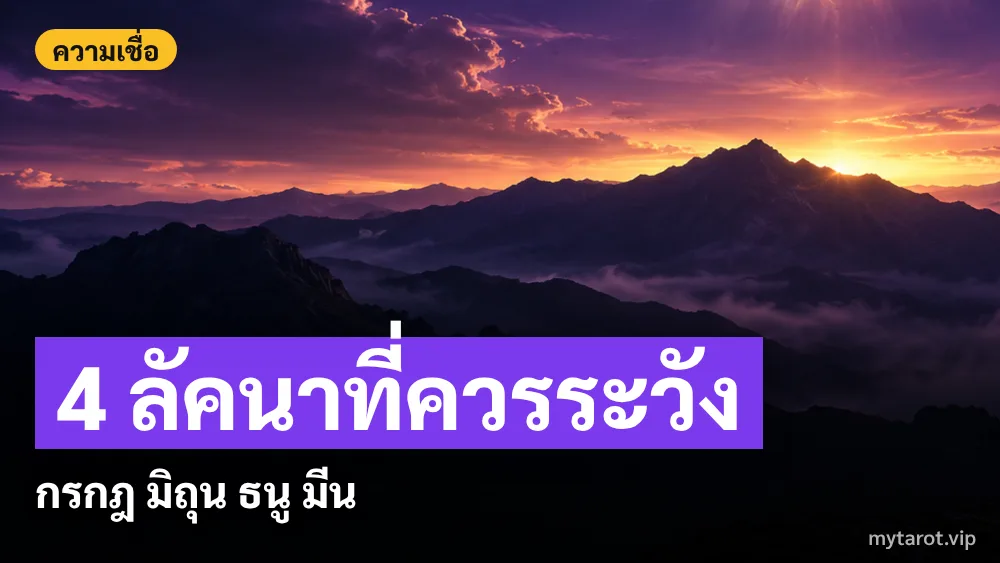
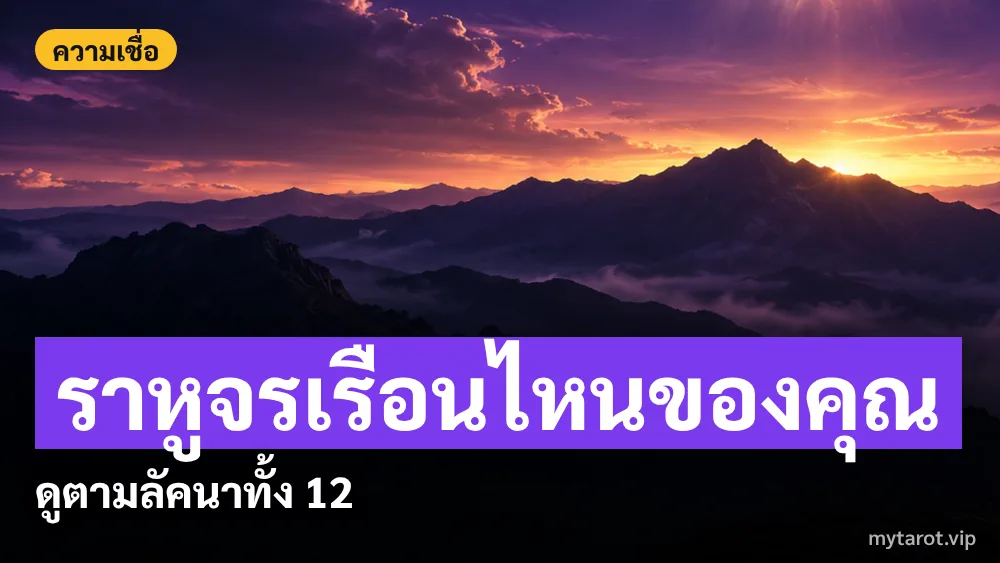
news

Changed region(s): [[0.031, 0.5737, 0.961, 0.9361]]

diff --git a/news/rahu-capricorn-2569.html b/news/rahu-capricorn-2569.html
@@ -4,17 +4,17 @@
   <meta charset="UTF-8">
   <meta name="viewport" content="width=device-width, initial-scale=1.0">
   <title>ราหูย้ายมังกร 22 พ.ย. 2569 กระทบ 12 ลัคนาอย่างไร | mytarot.vip</title>
-  <meta name="description" content="ราหูย้ายจากราศีกุมภ์เข้าราศีมังกร 22 พ.ย. 2569 เวลาประมาณ 05:05 น. อยู่ราว 1 ปีครึ่ง ลัคนาไหนต้องระวัง ไหว้พระราหูอย่างไร ตามความเชื่อโหราศาสตร์ไทย">
+  <meta name="description" content="ราหูย้ายจากราศีกุมภ์เข้าราศีมังกร 22 พ.ย. 2569 อยู่ราว 1 ปีครึ่ง ดูตามลัคนาว่ากระทบเรือนไหน ไหว้พระราหูอย่างไร ตามตำราโหราศาสตร์ไทย">
   <link rel="canonical" href="https://www.mytarot.vip/news/rahu-capricorn-2569">
   <meta property="og:title" content="ราหูย้ายมังกร 22 พ.ย. 2569 กระทบ 12 ลัคนาอย่างไร | mytarot.vip">
-  <meta property="og:description" content="ราหูย้ายจากราศีกุมภ์เข้าราศีมังกร 22 พ.ย. 2569 เวลาประมาณ 05:05 น. อยู่ราว 1 ปีครึ่ง ลัคนาไหนต้องระวัง ไหว้พระราหูอย่างไร ตามความเชื่อโหราศาสตร์ไทย">
+  <meta property="og:description" content="ราหูย้ายจากราศีกุมภ์เข้าราศีมังกร 22 พ.ย. 2569 อยู่ราว 1 ปีครึ่ง ดูตามลัคนาว่ากระทบเรือนไหน ไหว้พระราหูอย่างไร ตามตำราโหราศาสตร์ไทย">
   <meta property="og:url" content="https://www.mytarot.vip/news/rahu-capricorn-2569">
   <meta property="og:image" content="https://www.mytarot.vip/images/news/og-rahu-capricorn-2569.jpg">
   <meta property="og:type" content="article">
   <meta property="og:locale" content="th_TH">
   <meta name="twitter:card" content="summary_large_image">
   <meta name="twitter:title" content="ราหูย้ายมังกร 22 พ.ย. 2569 กระทบ 12 ลัคนาอย่างไร | mytarot.vip">
-  <meta name="twitter:description" content="ราหูย้ายจากราศีกุมภ์เข้าราศีมังกร 22 พ.ย. 2569 เวลาประมาณ 05:05 น. อยู่ราว 1 ปีครึ่ง ลัคนาไหนต้องระวัง ไหว้พระราหูอย่างไร ตามความเชื่อโหราศาสตร์ไทย">
+  <meta name="twitter:description" content="ราหูย้ายจากราศีกุมภ์เข้าราศีมังกร 22 พ.ย. 2569 อยู่ราว 1 ปีครึ่ง ดูตามลัคนาว่ากระทบเรือนไหน ไหว้พระราหูอย่างไร ตามตำราโหราศาสตร์ไทย">
   <meta name="twitter:image" content="https://www.mytarot.vip/images/news/og-rahu-capricorn-2569.jpg">
   <link rel="icon" type="image/png" href="/images/favicon.png">
   <link rel="preconnect" href="https://fonts.googleapis.com">
@@ -76,6 +76,12 @@
     .cta-desc{font-size:13px;color:rgba(255,255,255,0.55);line-height:1.8;margin-bottom:14px;}
     .cta-btn{display:block;padding:13px;border-radius:14px;background:linear-gradient(135deg,#fcd34d,#fbbf24);color:#0b0e14;font-size:14.5px;font-weight:800;text-decoration:none;margin-bottom:8px;}
     .cta-btn-sec{display:block;padding:11px;border-radius:14px;background:rgba(255,255,255,0.04);border:1px solid rgba(255,255,255,0.1);color:rgba(255,255,255,0.6);font-size:12.5px;font-weight:600;text-decoration:none;margin-top:8px;}
+    .lg{border:1px solid rgba(255,255,255,0.08);border-radius:14px;padding:12px 14px;margin:0 0 10px;background:rgba(255,255,255,0.02);}
+    .lg h3{font-size:15px;font-weight:800;margin:0 0 4px;color:#fff;display:flex;align-items:center;gap:8px;flex-wrap:wrap;}
+    .lg h3 em{font-style:normal;font-size:11px;padding:2px 10px;border-radius:999px;font-weight:700;}
+    .lg h3 em.ok{background:rgba(52,211,153,0.15);color:#6ee7b7;}
+    .lg h3 em.care{background:rgba(251,191,36,0.15);color:#fcd34d;}
+    .lg p{font-size:14px;margin:0;line-height:1.9;}
     .rel{display:flex;flex-wrap:wrap;gap:8px;margin:12px 16px 0;}
     .rel a{padding:8px 14px;border-radius:999px;background:rgba(251,191,36,0.06);border:1px solid rgba(251,191,36,0.22);color:#fcd34d;font-size:12.5px;text-decoration:none;}
     .seo-block{padding:20px;border-top:1px solid rgba(255,255,255,0.06);margin-top:22px;}
@@ -98,45 +104,75 @@
     <button type="button" id="cpLink">Copy link</button>
   </div>
   <div class="a-body">
-    <p>วันที่ 22 พฤศจิกายน 2569 เวลาประมาณ 05:05 น. ดาวราหูจะย้ายจากราศีกุมภ์เข้าสู่ราศีมังกร ตามที่โหรหลายสำนักรายงาน (เวลาอาจต่างกันเล็กน้อยตามแต่ละสำนัก) และจะอยู่ในราศีนี้ราว 1 ปีครึ่ง เรารวมสิ่งที่ควรรู้ไว้ในหน้าเดียวแล้ว</p>
+    <p>เช้ามืดวันที่ 22 พฤศจิกายน 2569 ดาวราหูย้ายจากราศีกุมภ์เข้าสู่ราศีมังกร และจะอยู่ในราศีนี้ราว 1 ปีครึ่ง ถึงราวกลางปี 2571 ตามตำราโหราศาสตร์ไทย การเปลี่ยนราศีของราหูส่งผลต่อเรือนชะตาของแต่ละคนต่างกัน บทความนี้สรุปให้ครบในหน้าเดียว ตั้งแต่ความหมายของราหู ผลต่อแต่ละลัคนา ไปจนถึงวิธีไหว้</p>
     <div class="keybox">
-      <div><b>วันเวลา:</b> 22 พ.ย. 2569 ประมาณ 05:05 น.</div>
+      <div><b>วันเวลา:</b> เช้ามืด 22 พ.ย. 2569</div>
       <div><b>ย้ายจาก:</b> ราศีกุมภ์ → ราศีมังกร</div>
       <div><b>อยู่นาน:</b> ราว 1 ปีครึ่ง ถึงกลางปี 2571</div>
+      <div><b>เกตุ:</b> ย้ายเข้าราศีกรกฎพร้อมกัน</div>
       <div><b>ผล:</b> ต่างกันตามลัคนาของแต่ละคน</div>
     </div>
     <div class="a-fig"><img src="/images/news/rahu-in-1.webp" alt="ราหูคือดาวอะไร" width="1000" height="563" loading="lazy" decoding="async"><h2 class="a-h2">ราหูคือดาวอะไร ตามโหราศาสตร์ไทย</h2></div>
 
-    <p>ราหูเป็นดาวเงา ไม่ใช่ดาวที่มองเห็นด้วยตา ตามโหราศาสตร์ไทยเชื่อกันว่าราหูแทนเรื่องที่ไม่คาดคิด การเปลี่ยนแปลงกะทันหัน รวมถึงเรื่องของโลกออนไลน์และงานต่างประเทศ ราหูเดินถอยหลังและอยู่ราศีละราว 1 ปีครึ่ง การย้ายแต่ละครั้งจึงเป็นเรื่องที่โหรพูดถึงเสมอ ถ้าอยากรู้พื้นฐานเพิ่ม อ่านต่อได้ที่ <a href="/learn/thai-astro">โหราศาสตร์ไทยคืออะไร</a></p>
-    <h2 class="a-h2">ภาพรวมที่โหรหลายสำนักมองคล้ายกัน</h2>
-    <ul>
-      <li>ผลต่างกันตามลัคนา ลัคนาคือราศีที่ขึ้นทางตะวันออกตอนเกิด ไม่ใช่ราศีตามเดือนเกิด</li>
-      <li>ช่วงส่งท้ายปีหลายสำนักแนะนำให้วางแผนรอบคอบ เพราะบางลัคนามีทั้งโอกาสและเรื่องวุ่นวายมาพร้อมกัน</li>
-      <li>บางสำนักมองว่าหลังย้าย เรื่องที่ค้างคาของบางลัคนาจะเริ่มคลี่คลายและงานราบรื่นขึ้น</li>
-    </ul>
-    <p>ถ้ายังไม่รู้ลัคนาของตัวเอง <a href="/pages/thai-astro">ผูกดวงโหราศาสตร์ไทย</a> จากวันเวลาที่เกิดได้</p>
-    <div class="a-fig"><img src="/images/news/rahu-in-2.webp" alt="4 ลัคนาที่ควรระวัง" width="1000" height="563" loading="lazy" decoding="async"><h2 class="a-h2">4 ลัคนาที่โหรบางสำนักเตือนให้ระวัง</h2></div>
+    <p>ราหูเป็นดาวเงา ไม่ใช่ดาวที่มองเห็นด้วยตา ตามตำราไทยราหูแทนเรื่องที่ไม่คาดคิด การเปลี่ยนแปลงกะทันหัน ความอยากได้ใคร่มี เรื่องของโลกออนไลน์ และงานต่างประเทศ ราหูเดินถอยหลังและอยู่ราศีละราว 1 ปีครึ่ง อ่านพื้นฐานเพิ่มได้ที่ <a href="/learn/thai-astro">โหราศาสตร์ไทยคืออะไร</a></p>
+    <h2 class="a-h2">ราหูในราศีมังกร ต่างจากกุมภ์อย่างไร</h2>
+    <p>ทั้งมังกรและกุมภ์มีเสาร์เป็นเจ้าเรือน แต่เนื้อหาต่างกัน ช่วงที่ราหูอยู่กุมภ์ เรื่องเด่นคือโลกออนไลน์ เทคโนโลยี และเครือข่ายคนรู้จัก เมื่อย้ายเข้ามังกร ตามตำราจุดเน้นขยับมาที่การงาน ระเบียบ ความรับผิดชอบ ทรัพย์สินที่จับต้องได้ และองค์กรขนาดใหญ่ ผู้ที่อยากได้ความก้าวหน้าจะรู้สึกถึงแรงผลักดัน ขณะเดียวกันก็ต้องจัดการกับแรงกดดันของหน้าที่มากขึ้นด้วย ลองอ่านลักษณะของ<a href="/learn/capricorn">ราศีมังกร</a>และ<a href="/learn/aquarius">ราศีกุมภ์</a>เทียบกันได้ที่ห้องเรียน</p>
+    <h2 class="a-h2">ราหูย้ายแล้วกระทบเรื่องไหน ดูที่ลัคนา</h2>
+    <p>หลักของโหราศาสตร์ไทยคือดูว่าราหูจรผ่านเรือนไหนของดวงเรา ลัคนาคือราศีที่ขึ้นทางตะวันออกตอนเกิด ไม่ใช่ราศีตามเดือนเกิด เมื่อราหูอยู่ราศีมังกร เรือนที่ถูกกระตุ้นจะต่างกันตามลัคนา ตามหลักเรือนจรทั่วไป เรือนที่ 3 6 10 และ 11 เป็นเรือนที่ดาวราหูมักเอื้อ ส่วนเรือนอื่นควรรอบคอบกับเรื่องที่เรือนนั้นดูแล</p>
+    <div class="a-fig"><img src="/images/news/rahu-in-2.webp" alt="ราหูจรเรือนไหนของคุณ" width="1000" height="563" loading="lazy" decoding="async"><h2 class="a-h2">ราหูจรเรือนไหนของคุณ</h2></div>
 
     <div class="table-wrap"><table>
-      <tr><th>ลัคนา</th><th>เรื่องที่ควรระวัง</th></tr>
-      <tr><td>กรกฎ</td><td>สุขภาพ โรคตามฤดูกาล และที่ที่คนแน่น ควรพักผ่อนให้พอ</td></tr>
-      <tr><td>มิถุน</td><td>เรื่องครอบครัว คำพูดกับผู้ใหญ่ และสุขภาพของผู้สูงอายุในบ้าน</td></tr>
-      <tr><td>ธนู</td><td>เงินรั่ว รายจ่ายก้อนใหญ่หรือเรื่องด่วนที่ต้องจ่าย</td></tr>
-      <tr><td>มีน</td><td>กระแสเงินสด ค่าใช้จ่ายก้อนใหญ่อาจมาพร้อมกัน ควรวางแผนไว้</td></tr>
+      <tr><th>ลัคนา</th><th>ราหูจร</th><th>แนวโน้ม</th><th>เรื่องที่เกี่ยวข้อง</th></tr>
+      <tr><td>เมษ</td><td>เรือนที่ 10</td><td>เอื้อ</td><td>การงานและชื่อเสียง</td></tr>
+      <tr><td>พฤษภ</td><td>เรือนที่ 9</td><td>รอบคอบ</td><td>เดินทางไกล การเรียน ผู้ใหญ่</td></tr>
+      <tr><td>มิถุน</td><td>เรือนที่ 8</td><td>รอบคอบ</td><td>เงินร่วม หนี้ เรื่องไม่คาดคิด</td></tr>
+      <tr><td>กรกฎ</td><td>เรือนที่ 7</td><td>รอบคอบ</td><td>คู่ครองและหุ้นส่วน</td></tr>
+      <tr><td>สิงห์</td><td>เรือนที่ 6</td><td>เอื้อ</td><td>งานประจำ สุขภาพ คู่แข่ง</td></tr>
+      <tr><td>กันย์</td><td>เรือนที่ 5</td><td>รอบคอบ</td><td>ความรัก ลูก การลงทุน</td></tr>
+      <tr><td>ตุลย์</td><td>เรือนที่ 4</td><td>รอบคอบ</td><td>บ้านและครอบครัว</td></tr>
+      <tr><td>พิจิก</td><td>เรือนที่ 3</td><td>เอื้อ</td><td>การสื่อสาร พี่น้อง</td></tr>
+      <tr><td>ธนู</td><td>เรือนที่ 2</td><td>รอบคอบ</td><td>การเงินและคำพูด</td></tr>
+      <tr><td>มังกร</td><td>เรือนที่ 1</td><td>รอบคอบ</td><td>ตัวตนและสุขภาพ</td></tr>
+      <tr><td>กุมภ์</td><td>เรือนที่ 12</td><td>รอบคอบ</td><td>ค่าใช้จ่าย ต่างประเทศ</td></tr>
+      <tr><td>มีน</td><td>เรือนที่ 11</td><td>เอื้อ</td><td>รายได้ เพื่อนฝูง เป้าหมาย</td></tr>
     </table></div>
-    <div class="note">เป็นการทำนายของโหราศาสตร์บางสำนัก ไม่ได้แปลว่าลัคนาอื่นไม่ต้องระวัง และไม่ได้แปลว่าเรื่องร้ายจะเกิดแน่นอน เรียนรู้ลักษณะของ<a href="/learn/capricorn">ราศีมังกร</a>และ<a href="/learn/aquarius">ราศีกุมภ์</a>เพิ่มได้ที่ห้องเรียนของเรา</div>
+    <h2 class="a-h2">อ่านรายละเอียดแต่ละลัคนา</h2>
+    <div class="lg"><h3>ลัคนาเมษ · เรือนที่ 10 <em class="ok">มักเอื้อ</em></h3><p>ราหูจรเรือนการงาน เรื่องงานและชื่อเสียงถูกกระตุ้นแรง อาจมีโอกาสเปลี่ยนตำแหน่ง ย้ายสายงาน หรือมีคนจับตามองผลงานมากขึ้น ตามหลักเรือนจรเป็นเรือนที่ราหูมักเอื้อ ควรรับโอกาสแต่อ่านรายละเอียดข้อตกลงให้ครบก่อนตอบรับ</p></div>
+    <div class="lg"><h3>ลัคนาพฤษภ · เรือนที่ 9 <em class="care">ควรรอบคอบ</em></h3><p>เรือนของการเดินทางไกล การศึกษา และผู้ใหญ่ อาจมีเรื่องเรียนต่อ งานต่างถิ่น หรือแนวคิดใหม่ที่เปลี่ยนมุมมองชีวิต ควรรอบคอบกับการตัดสินใจตามคำแนะนำของผู้ใหญ่หรือที่ปรึกษา และเตรียมเอกสารเดินทางล่วงหน้า</p></div>
+    <div class="lg"><h3>ลัคนามิถุน · เรือนที่ 8 <em class="care">ควรรอบคอบ</em></h3><p>เรือนของเงินร่วม หนี้สิน มรดก ภาษี และเรื่องไม่คาดคิด ควรทบทวนประกัน เอกสารการเงิน และสัญญาที่ผูกพันกับผู้อื่น หลีกเลี่ยงการค้ำประกันหรือกู้เกินตัว และไม่ควรลืมตรวจสุขภาพประจำปี</p></div>
+    <div class="lg"><h3>ลัคนากรกฎ · เรือนที่ 7 <em class="care">ควรรอบคอบ</em></h3><p>เรือนของคู่ครองและหุ้นส่วน อาจมีคนใหม่เข้ามาในชีวิตหรือในงาน ขณะที่ความสัมพันธ์เดิมอาจถูกทดสอบ ควรสื่อสารตรงไปตรงมา อ่านสัญญาร่วมทุนอย่างละเอียด และไม่ด่วนสรุปเรื่องคนที่เพิ่งรู้จัก</p></div>
+    <div class="lg"><h3>ลัคนาสิงห์ · เรือนที่ 6 <em class="ok">มักเอื้อ</em></h3><p>เรือนของงานประจำ สุขภาพ และคู่แข่ง ตามหลักเรือนจรเป็นเรือนที่ราหูมักเอื้อต่อการแข่งขันและการแก้ปัญหาเรื้อรัง เหมาะกับการจัดระเบียบงาน ปรับพฤติกรรมสุขภาพ และสะสางหนี้ที่ค้างอยู่</p></div>
+    <div class="lg"><h3>ลัคนากันย์ · เรือนที่ 5 <em class="care">ควรรอบคอบ</em></h3><p>เรือนของความรัก ลูก ความคิดสร้างสรรค์ และการลงทุนเสี่ยง มักมีไอเดียแปลกใหม่และเสน่ห์ดึงดูด แต่ควรระวังการเก็งกำไรเกินตัวและความรักที่ร้อนแรงเร็วเกินไป ลงทุนเฉพาะเงินที่รับความเสี่ยงได้</p></div>
+    <div class="lg"><h3>ลัคนาตุลย์ · เรือนที่ 4 <em class="care">ควรรอบคอบ</em></h3><p>เรือนของบ้าน ครอบครัว ที่ดิน และสภาพจิตใจ อาจมีเรื่องย้ายที่อยู่ ซ่อมแซมบ้าน หรือดูแลคนในครอบครัวมากขึ้น ควรใจเย็นกับคนใกล้ชิด และตรวจเอกสารสิทธิ์หรือสัญญาเช่าให้เรียบร้อย</p></div>
+    <div class="lg"><h3>ลัคนาพิจิก · เรือนที่ 3 <em class="ok">มักเอื้อ</em></h3><p>เรือนของการสื่อสาร พี่น้อง และการเดินทางใกล้ ตามหลักเรือนจรเป็นเรือนที่ราหูมักเอื้อ เหมาะกับการเริ่มงานเขียน การตลาด การเจรจา หรือเรียนทักษะใหม่ แต่ควรตรวจข้อมูลให้ชัดก่อนส่งต่อหรือพูดออกไป</p></div>
+    <div class="lg"><h3>ลัคนาธนู · เรือนที่ 2 <em class="care">ควรรอบคอบ</em></h3><p>เรือนของการเงิน คำพูด และทรัพย์สิน รายรับรายจ่ายอาจแกว่ง มีโอกาสหารายได้ทางใหม่ แต่รายจ่ายก็มาพร้อมกัน ควรทำงบรายเดือน ระวังคำพูดที่กระทบความสัมพันธ์ และไม่เซ็นข้อตกลงเรื่องเงินแบบรีบร้อน</p></div>
+    <div class="lg"><h3>ลัคนามังกร · เรือนที่ 1 <em class="care">ควรรอบคอบ</em></h3><p>ราศีที่ราหูเข้ามาตรงกับลัคนาของคุณ เป็นเรือนตัวตน สุขภาพ และบุคลิก คนรอบข้างอาจเห็นว่าคุณเปลี่ยนไป และคุณเองอาจอยากเปลี่ยนภาพลักษณ์หรือชีวิตครั้งใหญ่ ควรพักผ่อนให้พอ ตรวจสุขภาพ และตัดสินใจเรื่องใหญ่เมื่อใจนิ่ง</p></div>
+    <div class="lg"><h3>ลัคนากุมภ์ · เรือนที่ 12 <em class="care">ควรรอบคอบ</em></h3><p>เรือนของค่าใช้จ่าย การพักผ่อน ต่างประเทศ และเรื่องลับ ราหูเพิ่งออกจากราศีลัคนาของคุณ แรงกดดันที่เคยมีอาจผ่อนลง แต่ค่าใช้จ่ายด้านสุขภาพ การเดินทาง หรือเรื่องที่ซ่อนอยู่อาจโผล่ขึ้นมา ควรกันเงินสำรองและนอนให้พอ</p></div>
+    <div class="lg"><h3>ลัคนามีน · เรือนที่ 11 <em class="ok">มักเอื้อ</em></h3><p>เรือนของรายได้ เพื่อนฝูง และเป้าหมาย ตามหลักเรือนจรเป็นเรือนที่ราหูมักเอื้อ เครือข่ายคนรู้จักช่วยเปิดโอกาสรายได้ได้ แต่ควรเลือกคบคนและโครงการที่ไว้ใจ ไม่หลงตามกระแสเร็วเกินไป</p></div>
+    <div class="note">นี้เป็นการดูจากเรือนจรเพียงอย่างเดียว ผลจริงขึ้นกับดวงกำเนิดทั้งหมดและดาวดวงอื่นด้วย ตามความเชื่อไม่ได้แปลว่าจะดีหรือร้ายแน่นอน ถ้ายังไม่รู้ลัคนาของตัวเอง <a href="/pages/thai-astro">ผูกดวงโหราศาสตร์ไทย</a> จากวันเวลาเกิดได้</div>
+    <h2 class="a-h2">เกตุย้ายเข้ากรกฎพร้อมกัน</h2>
+    <p>ราหูกับเกตุอยู่ตรงข้ามกันเสมอ เมื่อราหูเข้ามังกร เกตุจะเข้าราศีกรกฎ ตามตำราเกตุเกี่ยวกับการปล่อยวาง จิตใจ ครอบครัว และเรื่องในอดีต จึงมองได้ว่าช่วงนี้เป็นการดึงความสนใจไปที่งานและความสำเร็จ ขณะที่ต้องหมั่นดูแลใจและคนในบ้านไม่ให้ขาดสมดุล</p>
+    <h2 class="a-h2">ช่วงเวลาสำคัญ</h2>
+    <div class="table-wrap"><table>
+      <tr><th>เมื่อไหร่</th><th>เหตุการณ์</th></tr>
+      <tr><td>22 พ.ย. 2569 (เช้ามืด)</td><td>ราหูเข้าราศีมังกร</td></tr>
+      <tr><td>ระหว่างทาง</td><td>อยู่ราศีมังกรราว 1 ปีครึ่ง</td></tr>
+      <tr><td>กลางปี 2571 (ราว 10 มิ.ย.)</td><td>ราหูย้ายเข้าราศีธนู</td></tr>
+    </table></div>
+    <p>ผู้ที่เกิดวันพุธกลางคืน ซึ่งตามตำราไทยมีราหูเป็นเจ้าวัน มักถูกพูดถึงเป็นพิเศษในช่วงราหูย้าย ดูดวงตามวันเกิดของคุณได้ที่ <a href="/pages/daily-horoscope">ดวงรายวัน</a></p>
     <div class="a-fig" id="bucha"><img src="/images/news/card-bucha.webp" alt="ไหว้พระราหู" width="1000" height="563" loading="lazy" decoding="async"><h2 class="a-h2">ไหว้พระราหูอย่างไร ตามความเชื่อ</h2></div>
 
-    <p>ผู้ที่เชื่อมักไหว้พระราหูก่อนหรือหลังวันย้าย โดยใช้ของไหว้สีดำ เช่น เฉาก๊วย ขนมเปียกปูน ข้าวเหนียวดำ กาแฟดำ หรือช็อกโกแลต หันหน้าไปทางทิศตะวันตกเฉียงเหนือซึ่งเชื่อว่าเป็นทิศของพระราหู และตั้งจิตให้สงบ นอกจากนี้การทำบุญตามกำลังก็เป็นวิธีที่นิยม ดูวิธีบูชาและบทสวดเพิ่มได้ที่ <a href="/pages/bucha-rahu">บูชาพระราหู</a></p>
+    <p>ผู้ที่เชื่อมักไหว้พระราหูก่อนหรือหลังวันย้าย โดยใช้ของไหว้สีดำ เช่น เฉาก๊วย ขนมเปียกปูน ข้าวเหนียวดำ กาแฟดำ หรือช็อกโกแลต หันหน้าไปทางทิศตะวันตกเฉียงเหนือซึ่งเชื่อว่าเป็นทิศของพระราหู และตั้งจิตให้สงบ การทำบุญตามกำลังก็เป็นวิธีที่นิยม ดูวิธีบูชาและบทสวดเพิ่มได้ที่ <a href="/pages/bucha-rahu">บูชาพระราหู</a></p>
     <h2 class="a-h2">ช่วงนี้ทำอะไรได้บ้าง</h2>
     <ul>
       <li>ใช้เงินรอบคอบ ตรวจรายละเอียดก่อนตัดสินใจเรื่องเงินก้อนใหญ่</li>
       <li>ดูแลสุขภาพกายและใจ พักผ่อนให้พอ</li>
       <li>ระวังคำพูดกับผู้ใหญ่และคนใกล้ตัว</li>
+      <li>วางแผนงานระยะยาว เพราะราศีมังกรเน้นความมั่นคง</li>
       <li>ดูสีมงคลประจำวันเพื่อเสริมกำลังใจ ที่ <a href="/learn/lucky-color-today">สีมงคลวันนี้</a></li>
     </ul>
     <h2 class="a-h2" style="margin-top:26px;">คำถามที่พบบ่อย</h2>
-    <h3 class="a-h2" style="font-size:15px;margin:16px 0 4px;">ราหูย้ายวันไหน เวลากี่โมง</h3><p>ราหูย้ายจากราศีกุมภ์เข้าราศีมังกรวันที่ 22 พฤศจิกายน 2569 เวลาประมาณ 05:05 น. ตามที่โหรหลายสำนักรายงาน เวลาอาจต่างกันเล็กน้อยตามแต่ละสำนัก</p><h3 class="a-h2" style="font-size:15px;margin:16px 0 4px;">ราหูอยู่ราศีมังกรนานแค่ไหน</h3><p>ราหูอยู่ในแต่ละราศีราว 1 ปีครึ่ง ครั้งนี้จะอยู่ราศีมังกรถึงราวกลางปี 2571</p><h3 class="a-h2" style="font-size:15px;margin:16px 0 4px;">ราหูย้ายกระทบลัคนาไหนบ้าง</h3><p>ราหูส่งผลต่างกันตามลัคนาของแต่ละคน โหราศาสตร์บางสำนักเตือนให้ลัคนากรกฎ มิถุน ธนู และมีนระวังเป็นพิเศษ แต่เป็นเพียงความเชื่อ ไม่ได้แปลว่าจะเกิดเรื่องร้ายแน่นอน</p><h3 class="a-h2" style="font-size:15px;margin:16px 0 4px;">ไหว้พระราหูต้องใช้อะไร</h3><p>ตามความเชื่อมักใช้ของไหว้สีดำ เช่น เฉาก๊วย ขนมเปียกปูน ข้าวเหนียวดำ กาแฟดำ และหันหน้าไปทางทิศตะวันตกเฉียงเหนือ พร้อมตั้งจิตให้สงบ</p>
+    <h3 class="a-h2" style="font-size:15px;margin:16px 0 4px;">ราหูย้ายวันไหน</h3><p>ราหูย้ายจากราศีกุมภ์เข้าราศีมังกรเช้ามืดวันที่ 22 พฤศจิกายน 2569</p><h3 class="a-h2" style="font-size:15px;margin:16px 0 4px;">ราหูอยู่ราศีมังกรนานแค่ไหน</h3><p>ราหูอยู่ในแต่ละราศีราว 1 ปีครึ่ง ครั้งนี้อยู่ราศีมังกรถึงราวกลางปี 2571 แล้วย้ายเข้าราศีธนู</p><h3 class="a-h2" style="font-size:15px;margin:16px 0 4px;">ราหูย้ายกระทบเรื่องไหนของฉัน</h3><p>ดูจากลัคนาของคุณว่าราศีมังกรเป็นเรือนที่เท่าไหร่ เช่น ลัคนาตุลย์เป็นเรือนที่ 4 เรื่องบ้านและครอบครัว ลัคนาเมษเป็นเรือนที่ 10 เรื่องการงาน ผลจริงขึ้นกับดวงกำเนิดทั้งหมด</p><h3 class="a-h2" style="font-size:15px;margin:16px 0 4px;">ลัคนาไหนที่ราหูมักเอื้อ</h3><p>ตามหลักเรือนจร ราหูมักเอื้อเมื่อจรเรือนที่ 3 6 10 และ 11 ซึ่งในรอบนี้ตรงกับลัคนาพิจิก สิงห์ เมษ และมีน ตามลำดับ</p><h3 class="a-h2" style="font-size:15px;margin:16px 0 4px;">ราหูกับเกตุต่างกันอย่างไร</h3><p>ราหูและเกตุเป็นดาวเงาที่อยู่ตรงข้ามกันเสมอ ราหูเกี่ยวกับความอยากและการเปลี่ยนแปลง เกตุเกี่ยวกับการปล่อยวางและอดีต รอบนี้ราหูเข้ามังกร เกตุเข้ากรกฎ</p><h3 class="a-h2" style="font-size:15px;margin:16px 0 4px;">ไหว้พระราหูต้องใช้อะไร</h3><p>ตามความเชื่อมักใช้ของไหว้สีดำ เช่น เฉาก๊วย ขนมเปียกปูน ข้าวเหนียวดำ กาแฟดำ และหันหน้าไปทางทิศตะวันตกเฉียงเหนือ พร้อมตั้งจิตให้สงบ</p>
   </div>
 
   <div class="cta-box">
@@ -154,7 +190,7 @@
 
   <div class="seo-block">
     <h2>ราหูย้ายราศีมังกร 22 พ.ย. 69 กระทบ 12 ลัคนาอย่างไร | mytarot.vip</h2>
-    <p>ราหูย้ายจากราศีกุมภ์เข้าราศีมังกร 22 พ.ย. 2569 เวลาประมาณ 05:05 น. อยู่ราว 1 ปีครึ่ง ลัคนาไหนต้องระวัง ไหว้พระราหูอย่างไร ตามความเชื่อโหราศาสตร์ไทย ข้อมูลเป็นความเชื่อทางโหราศาสตร์เพื่อเป็นแนวทางและความบันเทิง ไม่ใช่คำแนะนำทางการแพทย์หรือการเงินค่ะ</p>
+    <p>ราหูย้ายจากราศีกุมภ์เข้าราศีมังกร 22 พ.ย. 2569 อยู่ราว 1 ปีครึ่ง ดูตามลัคนาว่ากระทบเรือนไหน ไหว้พระราหูอย่างไร ตามตำราโหราศาสตร์ไทย ข้อมูลเป็นความเชื่อทางโหราศาสตร์เพื่อเป็นแนวทางและความบันเทิง ไม่ใช่คำแนะนำทางการแพทย์หรือการเงินค่ะ</p>
   </div>
 </div>
 <script>
@@ -162,7 +198,7 @@ document.getElementById('cpLink').addEventListener('click',function(){var b=this
 try{navigator.clipboard.writeText(u).then(function(){b.textContent='คัดลอกแล้ว';});}catch(e){b.textContent='คัดลอกไม่สำเร็จ';}});
 </script>
 <script type="application/ld+json">{"@context": "https://schema.org", "@type": "BreadcrumbList", "itemListElement": [{"@type": "ListItem", "position": 1, "name": "mytarot.vip", "item": "https://www.mytarot.vip"}, {"@type": "ListItem", "position": 2, "name": "ข่าวดูดวง", "item": "https://www.mytarot.vip/news/"}, {"@type": "ListItem", "position": 3, "name": "ราหูย้ายมังกร 22 พ.ย. 69"}]}</script>
-<script type="application/ld+json">{"@context": "https://schema.org", "@type": "NewsArticle", "headline": "ราหูย้ายราศีมังกร 22 พ.ย. 69 กระทบ 12 ลัคนาอย่างไร", "description": "ราหูย้ายจากราศีกุมภ์เข้าราศีมังกร 22 พ.ย. 2569 เวลาประมาณ 05:05 น. อยู่ราว 1 ปีครึ่ง ลัคนาไหนต้องระวัง ไหว้พระราหูอย่างไร ตามความเชื่อโหราศาสตร์ไทย", "image": "https://www.mytarot.vip/images/news/og-rahu-capricorn-2569.jpg", "inLanguage": "th", "datePublished": "2026-11-15", "dateModified": "2026-11-15", "author": {"@type": "Organization", "name": "mytarot.vip"}, "publisher": {"@type": "Organization", "name": "mytarot.vip", "logo": {"@type": "ImageObject", "url": "https://www.mytarot.vip/images/favicon.png"}}, "mainEntityOfPage": "https://www.mytarot.vip/news/rahu-capricorn-2569"}</script>
-<script type="application/ld+json">{"@context": "https://schema.org", "@type": "FAQPage", "mainEntity": [{"@type": "Question", "name": "ราหูย้ายวันไหน เวลากี่โมง", "acceptedAnswer": {"@type": "Answer", "text": "ราหูย้ายจากราศีกุมภ์เข้าราศีมังกรวันที่ 22 พฤศจิกายน 2569 เวลาประมาณ 05:05 น. ตามที่โหรหลายสำนักรายงาน เวลาอาจต่างกันเล็กน้อยตามแต่ละสำนัก"}}, {"@type": "Question", "name": "ราหูอยู่ราศีมังกรนานแค่ไหน", "acceptedAnswer": {"@type": "Answer", "text": "ราหูอยู่ในแต่ละราศีราว 1 ปีครึ่ง ครั้งนี้จะอยู่ราศีมังกรถึงราวกลางปี 2571"}}, {"@type": "Question", "name": "ราหูย้ายกระทบลัคนาไหนบ้าง", "acceptedAnswer": {"@type": "Answer", "text": "ราหูส่งผลต่างกันตามลัคนาของแต่ละคน โหราศาสตร์บางสำนักเตือนให้ลัคนากรกฎ มิถุน ธนู และมีนระวังเป็นพิเศษ แต่เป็นเพียงความเชื่อ ไม่ได้แปลว่าจะเกิดเรื่องร้ายแน่นอน"}}, {"@type": "Question", "name": "ไหว้พระราหูต้องใช้อะไร", "acceptedAnswer": {"@type": "Answer", "text": "ตามความเชื่อมักใช้ของไหว้สีดำ เช่น เฉาก๊วย ขนมเปียกปูน ข้าวเหนียวดำ กาแฟดำ และหันหน้าไปทางทิศตะวันตกเฉียงเหนือ พร้อมตั้งจิตให้สงบ"}}]}</script>
+<script type="application/ld+json">{"@context": "https://schema.org", "@type": "NewsArticle", "headline": "ราหูย้ายราศีมังกร 22 พ.ย. 69 กระทบ 12 ลัคนาอย่างไร", "description": "ราหูย้ายจากราศีกุมภ์เข้าราศีมังกร 22 พ.ย. 2569 อยู่ราว 1 ปีครึ่ง ดูตามลัคนาว่ากระทบเรือนไหน ไหว้พระราหูอย่างไร ตามตำราโหราศาสตร์ไทย", "image": "https://www.mytarot.vip/images/news/og-rahu-capricorn-2569.jpg", "inLanguage": "th", "datePublished": "2026-11-15", "dateModified": "2026-11-15", "author": {"@type": "Organization", "name": "mytarot.vip"}, "publisher": {"@type": "Organization", "name": "mytarot.vip", "logo": {"@type": "ImageObject", "url": "https://www.mytarot.vip/images/favicon.png"}}, "mainEntityOfPage": "https://www.mytarot.vip/news/rahu-capricorn-2569"}</script>
+<script type="application/ld+json">{"@context": "https://schema.org", "@type": "FAQPage", "mainEntity": [{"@type": "Question", "name": "ราหูย้ายวันไหน", "acceptedAnswer": {"@type": "Answer", "text": "ราหูย้ายจากราศีกุมภ์เข้าราศีมังกรเช้ามืดวันที่ 22 พฤศจิกายน 2569"}}, {"@type": "Question", "name": "ราหูอยู่ราศีมังกรนานแค่ไหน", "acceptedAnswer": {"@type": "Answer", "text": "ราหูอยู่ในแต่ละราศีราว 1 ปีครึ่ง ครั้งนี้อยู่ราศีมังกรถึงราวกลางปี 2571 แล้วย้ายเข้าราศีธนู"}}, {"@type": "Question", "name": "ราหูย้ายกระทบเรื่องไหนของฉัน", "acceptedAnswer": {"@type": "Answer", "text": "ดูจากลัคนาของคุณว่าราศีมังกรเป็นเรือนที่เท่าไหร่ เช่น ลัคนาตุลย์เป็นเรือนที่ 4 เรื่องบ้านและครอบครัว ลัคนาเมษเป็นเรือนที่ 10 เรื่องการงาน ผลจริงขึ้นกับดวงกำเนิดทั้งหมด"}}, {"@type": "Question", "name": "ลัคนาไหนที่ราหูมักเอื้อ", "acceptedAnswer": {"@type": "Answer", "text": "ตามหลักเรือนจร ราหูมักเอื้อเมื่อจรเรือนที่ 3 6 10 และ 11 ซึ่งในรอบนี้ตรงกับลัคนาพิจิก สิงห์ เมษ และมีน ตามลำดับ"}}, {"@type": "Question", "name": "ราหูกับเกตุต่างกันอย่างไร", "acceptedAnswer": {"@type": "Answer", "text": "ราหูและเกตุเป็นดาวเงาที่อยู่ตรงข้ามกันเสมอ ราหูเกี่ยวกับความอยากและการเปลี่ยนแปลง เกตุเกี่ยวกับการปล่อยวางและอดีต รอบนี้ราหูเข้ามังกร เกตุเข้ากรกฎ"}}, {"@type": "Question", "name": "ไหว้พระราหูต้องใช้อะไร", "acceptedAnswer": {"@type": "Answer", "text": "ตามความเชื่อมักใช้ของไหว้สีดำ เช่น เฉาก๊วย ขนมเปียกปูน ข้าวเหนียวดำ กาแฟดำ และหันหน้าไปทางทิศตะวันตกเฉียงเหนือ พร้อมตั้งจิตให้สงบ"}}]}</script>
 </body>
 </html>

diff --git a/news/jupiter-leo-2569.html b/news/jupiter-leo-2569.html
@@ -76,6 +76,12 @@
     .cta-desc{font-size:13px;color:rgba(255,255,255,0.55);line-height:1.8;margin-bottom:14px;}
     .cta-btn{display:block;padding:13px;border-radius:14px;background:linear-gradient(135deg,#fcd34d,#fbbf24);color:#0b0e14;font-size:14.5px;font-weight:800;text-decoration:none;margin-bottom:8px;}
     .cta-btn-sec{display:block;padding:11px;border-radius:14px;background:rgba(255,255,255,0.04);border:1px solid rgba(255,255,255,0.1);color:rgba(255,255,255,0.6);font-size:12.5px;font-weight:600;text-decoration:none;margin-top:8px;}
+    .lg{border:1px solid rgba(255,255,255,0.08);border-radius:14px;padding:12px 14px;margin:0 0 10px;background:rgba(255,255,255,0.02);}
+    .lg h3{font-size:15px;font-weight:800;margin:0 0 4px;color:#fff;display:flex;align-items:center;gap:8px;flex-wrap:wrap;}
+    .lg h3 em{font-style:normal;font-size:11px;padding:2px 10px;border-radius:999px;font-weight:700;}
+    .lg h3 em.ok{background:rgba(52,211,153,0.15);color:#6ee7b7;}
+    .lg h3 em.care{background:rgba(251,191,36,0.15);color:#fcd34d;}
+    .lg p{font-size:14px;margin:0;line-height:1.9;}
     .rel{display:flex;flex-wrap:wrap;gap:8px;margin:12px 16px 0;}
     .rel a{padding:8px 14px;border-radius:999px;background:rgba(251,191,36,0.06);border:1px solid rgba(251,191,36,0.22);color:#fcd34d;font-size:12.5px;text-decoration:none;}
     .seo-block{padding:20px;border-top:1px solid rgba(255,255,255,0.06);margin-top:22px;}
@@ -104,7 +110,7 @@
     <p>ตามตำรา ดาวพฤหัสบดีเป็นดาวแห่งโชคลาภ ปัญญา ครูอาจารย์ และผู้ใหญ่ที่เมตตา ปกติย้ายราศีทุกราว 1 ปี ปีนี้พฤหัสผ่านจุดสำคัญหลายครั้ง</p>
     <div class="table-wrap"><table>
       <tr><th>วันที่</th><th>เหตุการณ์</th></tr>
-      <tr><td>31 พ.ค. 2569</td><td>เข้าราศีกรกฎ ตรงกับวันวิสาขบูชา โหรหลายสำนักถือเป็นมงคลซ้อนมงคล</td></tr>
+      <tr><td>31 พ.ค. 2569</td><td>เข้าราศีกรกฎ ตรงกับวันวิสาขบูชา ตามความเชื่อถือเป็นมงคลซ้อนมงคล</td></tr>
       <tr><td>20 ต.ค. 2569</td><td>เข้าราศีสิงห์</td></tr>
       <tr><td>9 ก.พ. 2570</td><td>ถอยกลับเข้าราศีกรกฎ (พฤหัสเดินถอยหลัง)</td></tr>
     </table></div>
